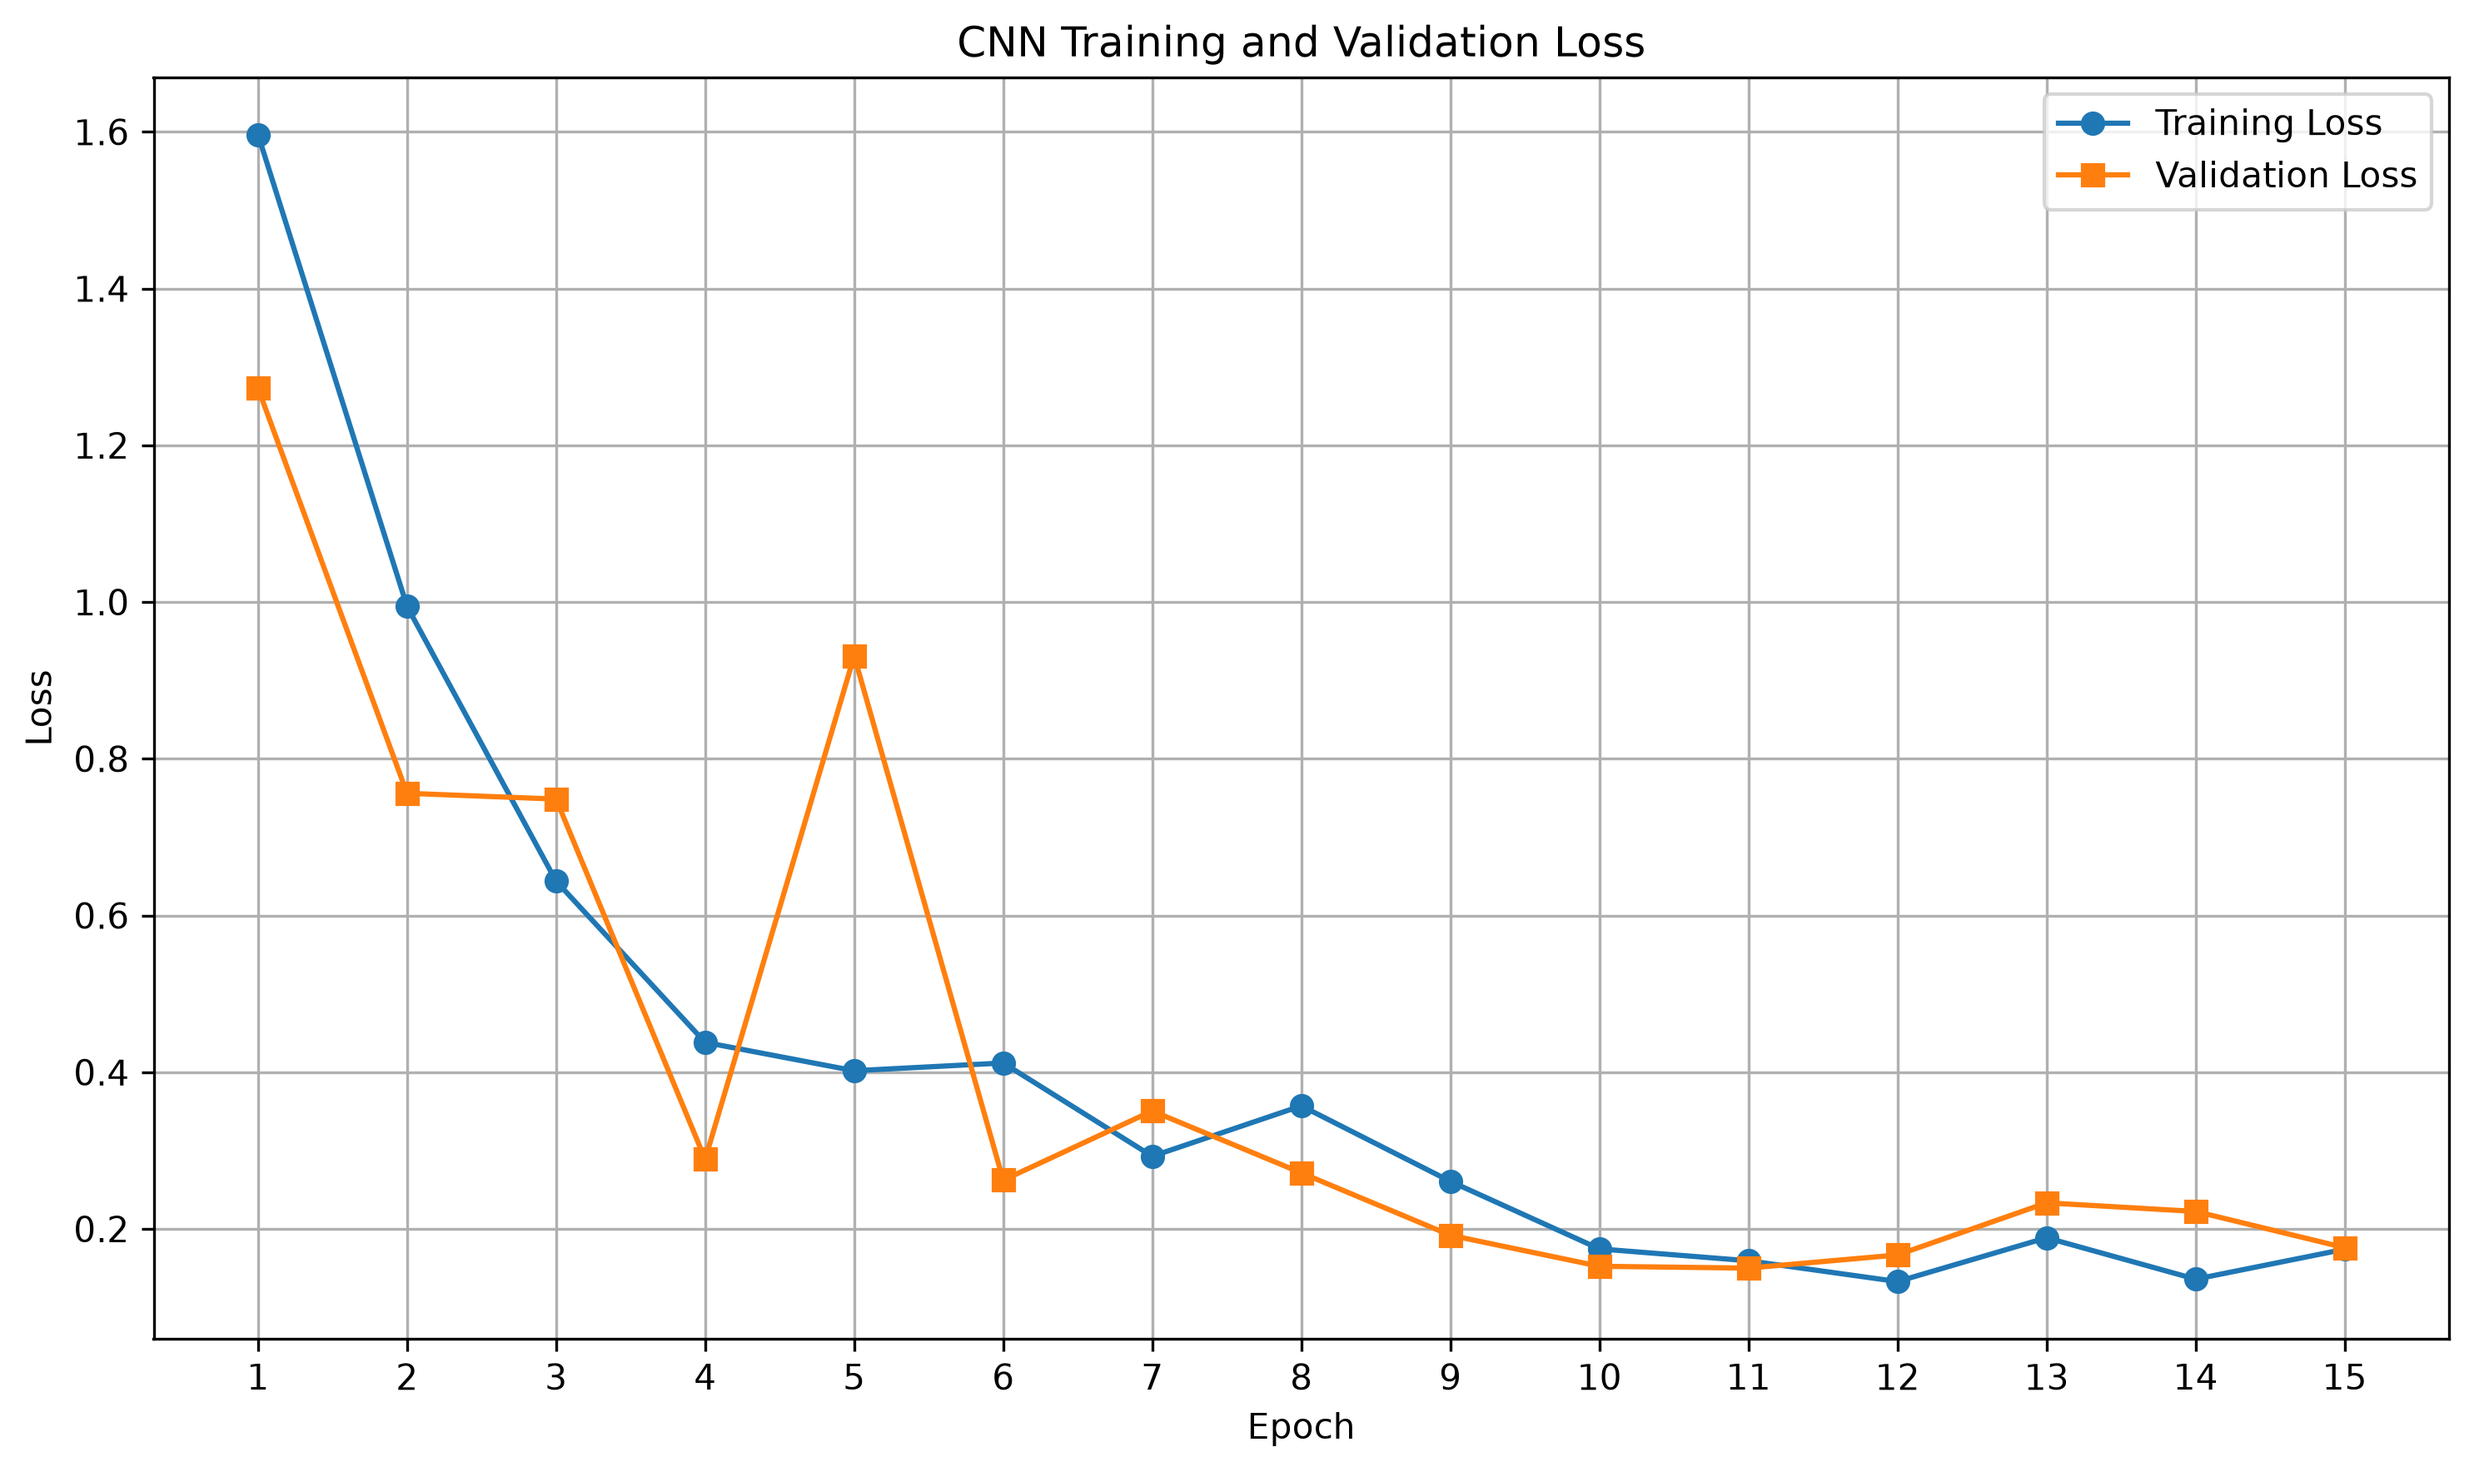
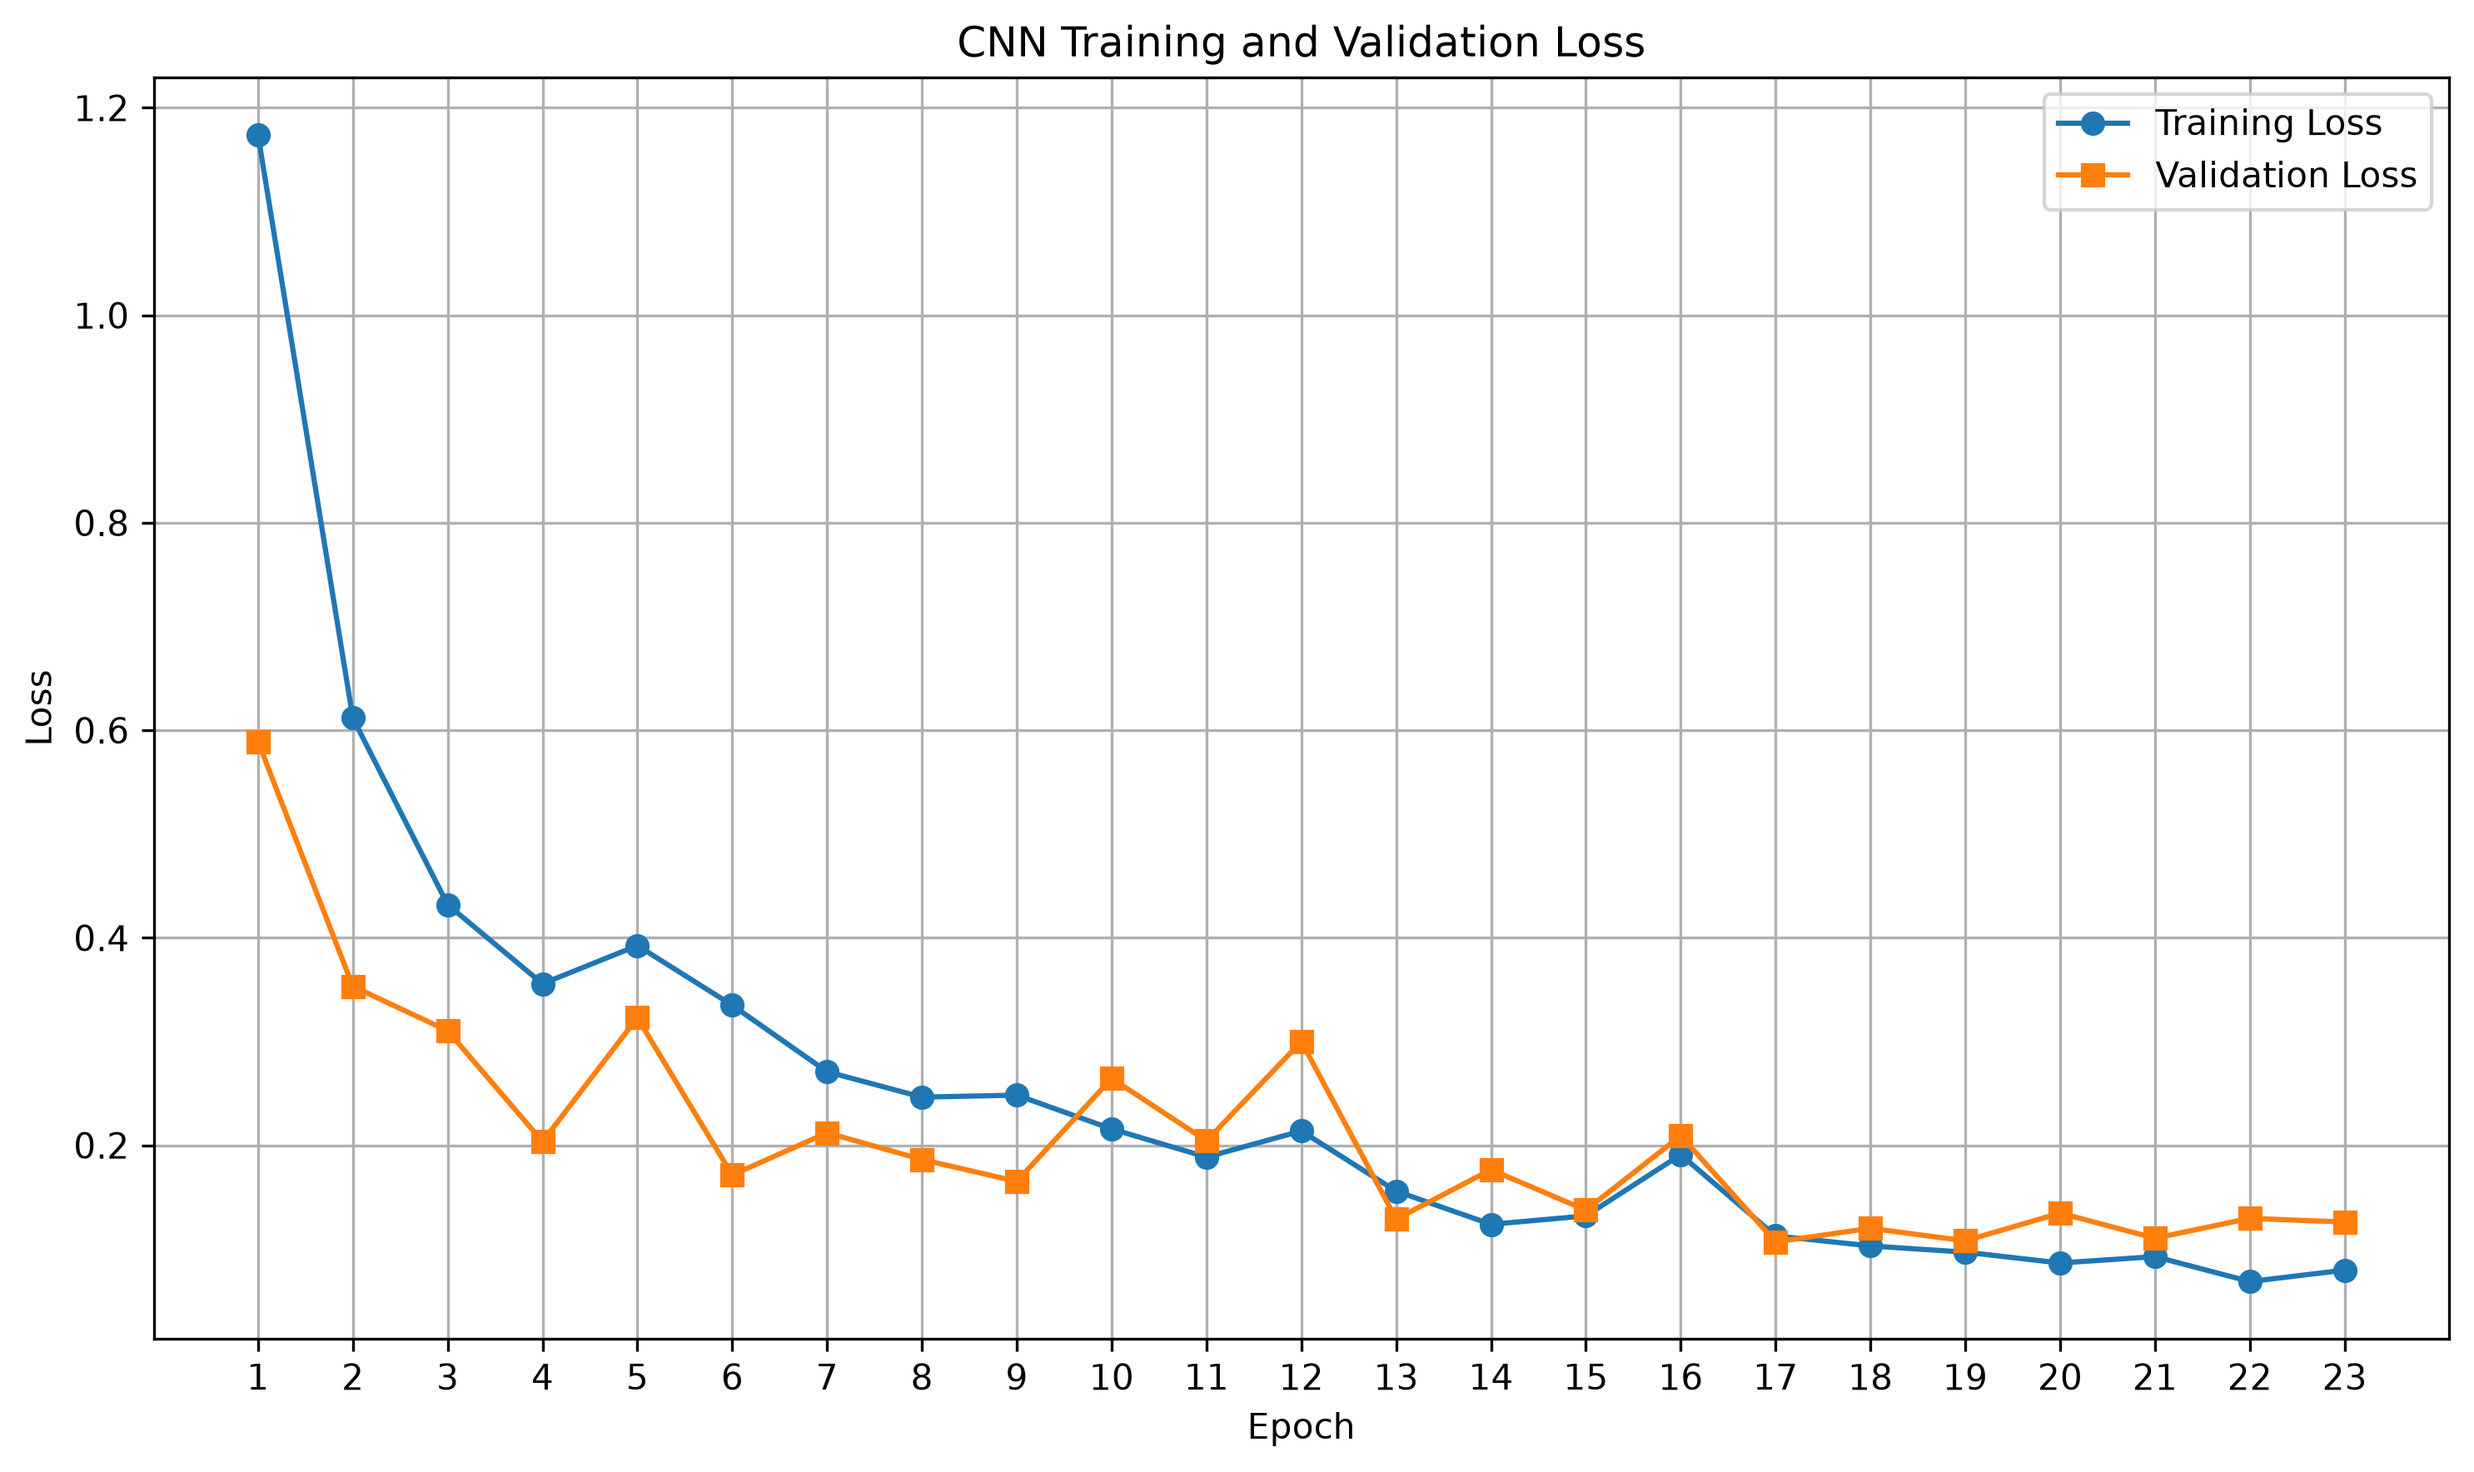
Add dataset inspection and CNN analysis results

diff --git a/src/inspect_dataset.py b/src/inspect_dataset.py
@@ -1,0 +1,210 @@
+
+from pathlib import Path
+from PIL import Image
+
+
+# --------------------------------------------------
+# PROJECT CONFIGURATION
+# --------------------------------------------------
+
+PROJECT_ROOT = Path(__file__).resolve().parents[1]
+
+# NEU dataset directory
+DATA_DIR = PROJECT_ROOT / "data" / "neu_split"
+
+# Dataset splits
+SPLITS = ["train", "val", "test"]
+
+# Six NEU defect classes
+CLASSES = ["Cr", "In", "Pa", "PS", "RS", "Sc"]
+
+# Supported image formats
+IMAGE_EXTENSIONS = {
+    ".png",
+    ".jpg",
+    ".jpeg",
+    ".bmp",
+    ".tif",
+    ".tiff",
+}
+
+
+# --------------------------------------------------
+# DATASET INSPECTION
+# --------------------------------------------------
+
+def inspect_dataset():
+
+    total_images = 0
+
+    print("=" * 60)
+    print("NEU STEEL DEFECT DATASET INSPECTION")
+    print("=" * 60)
+
+    print("Project directory:", PROJECT_ROOT)
+    print("Dataset directory:", DATA_DIR)
+
+    if not DATA_DIR.exists():
+
+        print("\nDataset directory not found!")
+
+        return
+
+    for split in SPLITS:
+
+        split_dir = DATA_DIR / split
+
+        print(f"\n{split.upper()}")
+        print("-" * 40)
+
+        if not split_dir.exists():
+
+            print("Folder not found:", split_dir)
+
+            continue
+
+        split_total = 0
+
+        for class_name in CLASSES:
+
+            class_dir = split_dir / class_name
+
+            if not class_dir.exists():
+
+                print(f"{class_name}: Folder missing")
+
+                continue
+
+            images = [
+
+                path
+
+                for path in class_dir.rglob("*")
+
+                if path.is_file()
+                and path.suffix.lower() in IMAGE_EXTENSIONS
+
+            ]
+
+            image_count = len(images)
+
+            split_total += image_count
+
+            print(f"{class_name}: {image_count} images")
+
+            # Display example image information
+            if images:
+
+                try:
+
+                    with Image.open(images[0]) as img:
+
+                        print(
+                            "  Example:",
+                            images[0].name,
+                            "| Size:",
+                            img.size,
+                            "| Mode:",
+                            img.mode,
+                        )
+
+                except Exception as error:
+
+                    print(
+                        "  Could not read example:",
+                        error,
+                    )
+
+        print(f"\nTotal {split}: {split_total}")
+
+        total_images += split_total
+
+    print("\n" + "=" * 60)
+    print("TOTAL DATASET IMAGES:", total_images)
+    print("=" * 60)
+
+
+# --------------------------------------------------
+# CHECK CORRUPTED IMAGES
+# --------------------------------------------------
+
+def check_corrupted_images():
+
+    print("\n" + "=" * 60)
+    print("CHECKING IMAGE FILES")
+    print("=" * 60)
+
+    if not DATA_DIR.exists():
+
+        print("Dataset directory not found:", DATA_DIR)
+
+        return
+
+    corrupted = []
+
+    checked = 0
+
+    for split in SPLITS:
+
+        split_dir = DATA_DIR / split
+
+        if not split_dir.exists():
+
+            continue
+
+        for class_dir in split_dir.iterdir():
+
+            if not class_dir.is_dir():
+
+                continue
+
+            for path in class_dir.rglob("*"):
+
+                if not path.is_file():
+
+                    continue
+
+                if path.suffix.lower() not in IMAGE_EXTENSIONS:
+
+                    continue
+
+                checked += 1
+
+                try:
+
+                    with Image.open(path) as img:
+
+                        img.verify()
+
+                except Exception as error:
+
+                    corrupted.append(
+                        (path, str(error))
+                    )
+
+    print("Images checked:", checked)
+
+    print("Corrupted images:", len(corrupted))
+
+    if corrupted:
+
+        print("\nCorrupted files:")
+
+        for path, error in corrupted:
+
+            print(path, "|", error)
+
+    else:
+
+        print("All images are readable!")
+
+
+# --------------------------------------------------
+# MAIN EXECUTION
+# --------------------------------------------------
+
+if __name__ == "__main__":
+
+    inspect_dataset()
+
+    check_corrupted_images()

diff --git a/src/visualize_misclassified.py b/src/visualize_misclassified.py
@@ -16,13 +16,13 @@ PROJECT_ROOT = Path(__file__).resolve().parents[1]
 PREDICTIONS_FILE = (
     PROJECT_ROOT
     / "results"
-    / "neu_cnn_test_predictions.csv"
+    / "neu_cnn_improved_test_predictions.csv"
 )
 
 OUTPUT_FILE = (
     PROJECT_ROOT
     / "results"
-    / "neu_cnn_misclassified_gallery.png"
+    / "neu_cnn_improved_misclassified_gallery.png"
 )
 
 
@@ -65,14 +65,14 @@ else:
     # Main title
 
     fig.suptitle(
-        "Misclassified Surface Defect Images",
+        "Improved CNN - Misclassified Surface Defect Images",
         fontsize=18,
         fontweight="bold",
         y=0.98
     )
 
     # ==========================================
-    # 4. CREATE SEPARATE IMAGE AND TEXT PANELS
+    # 4. CREATE IMAGE AND TEXT PANELS
     # ==========================================
 
     for index, (_, row) in enumerate(
@@ -145,6 +145,8 @@ else:
 
         text_ax.axis("off")
 
+        # Actual class
+
         text_ax.text(
             0.5,
             0.85,
@@ -155,6 +157,8 @@ else:
             transform=text_ax.transAxes
         )
 
+        # Predicted class
+
         text_ax.text(
             0.5,
             0.50,
@@ -164,6 +168,8 @@ else:
             fontsize=11,
             transform=text_ax.transAxes
         )
+
+        # Image filename
 
         text_ax.text(
             0.5,

diff --git a/src/plot_training_history.py b/src/plot_training_history.py
@@ -13,7 +13,7 @@ PROJECT_ROOT = Path(__file__).resolve().parents[1]
 
 RESULTS_DIR = PROJECT_ROOT / "results"
 
-HISTORY_FILE = RESULTS_DIR / "neu_cnn_training_history.csv"
+HISTORY_FILE = RESULTS_DIR / "neu_cnn_improved_training_history.csv"
 
 RESULTS_DIR.mkdir(parents=True, exist_ok=True)
 
